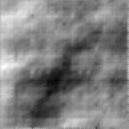
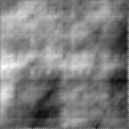
IMPORTANT: FIXED getHeight()

diff --git a/PreetumSandbox/Wumpus3D/Wumpus3Drev0/Terrain.cs b/PreetumSandbox/Wumpus3D/Wumpus3Drev0/Terrain.cs
@@ -857,15 +857,10 @@ namespace Wumpus3Drev0
 
                 pos += this.Size / 2;
                 Vector2 blockPos = new Vector2((int)(pos.X / blockScale), (int)(pos.Y / blockScale));
-                Vector2 posRel = pos - blockPos * blockScale;
+                Vector2 posRel = (pos - blockPos * blockScale) / blockScale;
 
                 int vertexIndex = (int)blockPos.X + (int)blockPos.Y * vertexCountX;
-                //if (vertexIndex >= vertices.Length - vertexCountX || vertexIndex < 0) return 20; //default value
-
-                float height1 = vertices[vertexIndex + 1].Position.Y;
-                float height2 = vertices[vertexIndex].Position.Y;
-                float height3 = vertices[vertexIndex + vertexCountX + 1].Position.Y;
-                float height4 = vertices[vertexIndex + vertexCountX].Position.Y;
+                if (vertexIndex >= vertices.Length - vertexCountX || vertexIndex < 0) return 20; //default value
 
                 float heightHxLz = vertices[vertexIndex + 1].Position.Y;
                 float heightLxLz = vertices[vertexIndex].Position.Y;
@@ -873,21 +868,21 @@ namespace Wumpus3Drev0
                 float heightLxHz = vertices[vertexIndex + vertexCountX].Position.Y;
 
                 bool aboveLowerTri = posRel.X < posRel.Y;
-                float heightIncX, heightIncY;
+                float finalHeight;
                 if (aboveLowerTri)
                 {
-                    heightIncX = height3 - height4;
-                    heightIncY = height4 - height2;
-                    //return height2 + heightIncX * posRel.X + heightIncY * posRel.Y;
+                    finalHeight = heightLxLz;
+                    finalHeight += posRel.Y * (heightLxHz - heightLxLz);
+                    finalHeight += posRel.X * (heightHxLz - heightLxLz);
                 }
                 else
                 {
-                    heightIncX = height1 - height2;
-                    heightIncY = height3 - height1;
-                    //return height3 + (1.0f-pos.X
+                    finalHeight = heightHxHz;
+                    finalHeight += (1.0f - posRel.Y) * (heightHxLz - heightHxHz);
+                    finalHeight += (1.0f - posRel.X) * (heightLxHz - heightHxHz);
                 }
-                float lerpHeight = height2 + heightIncX * posRel.X + heightIncY * posRel.Y;
-                return lerpHeight;
+                return finalHeight;
+
 
             }
             return 20; //default value
